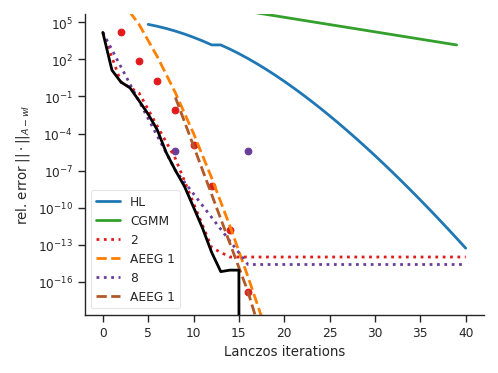
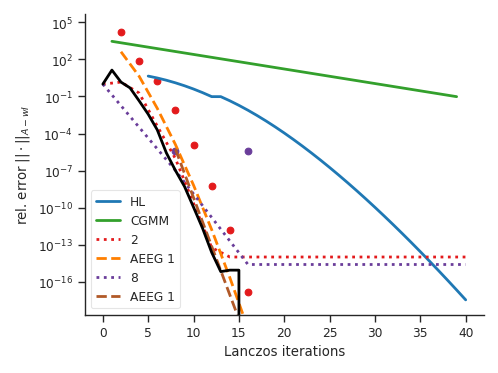
Revert! relative error bounds should not be multiplied with the exact norm

diff --git a/semi_md/matrix_analysis/bounds_cos_sqrt_omm.py b/semi_md/matrix_analysis/bounds_cos_sqrt_omm.py
@@ -69,7 +69,7 @@ if __name__ == '__main__':
     radius = max(evals) * t ** 2 - w  # np.abs(center - w)
     bound_n = 40
     norm_name = "A-wI"
-    apply_err0 = True
+    apply_err0 = False
     exact_n = 2000
 
 
@@ -172,11 +172,11 @@ if __name__ == '__main__':
         name = f"Afanasjew 1 {k}"
         plot_store[name + " bounds"] = bounds[0, :]
         plot_store[name + " ms"] = ms
-        ax.plot(ms, bounds[0, :], label="AEEG 1", linestyle="--", c=colors[j])
+        ax.plot(ms, bounds[0, :], label="AEGG 1", linestyle="--", c=colors[j])
         name = f"Afanasjew 2 {k}"
         plot_store[name + " bounds"] = bounds[1, :]
         plot_store[name + " ms"] = ms
-        # ax.plot(ms, bounds[1, :], label="AEEG 2", linestyle="--", c=colors.get(j, True))
+        # ax.plot(ms, bounds[1, :], label="AEGG 2", linestyle="--", c=colors.get(j, True))
         j += 1
 
     name = f"m:infty"

diff --git a/semi_md/matrix_analysis/bounds_cos_sqrt.py b/semi_md/matrix_analysis/bounds_cos_sqrt.py
@@ -63,7 +63,7 @@ if __name__ == '__main__':
     radius = max(evals) * t ** 2 - w  # np.abs(center - w)
     bound_n = 40
     norm_name = "A-wI"
-    apply_err0 = True
+    apply_err0 = False
     exact_n = 2000
 
 
